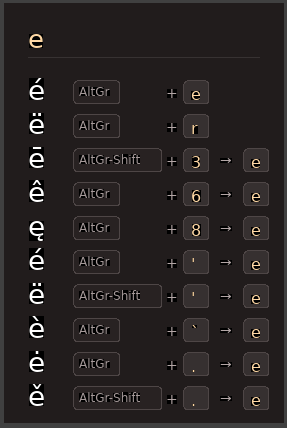
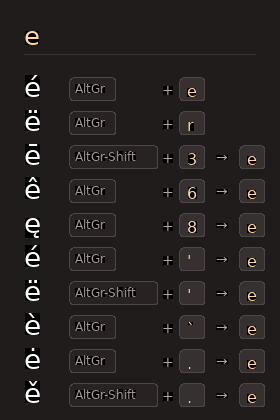
Add --anchor, --margin, and --char CLI options
- --anchor: position window at corners/edges (top-left, bottom-right, etc.)
- --margin: offset from screen edges
- --char: pre-filter to show variants for a specific character on startup

Also add automated screenshot script (scripts/screenshot.sh) that uses
these options to capture kbdviz for documentation.

diff --git a/src/main.rs b/src/main.rs
@@ -4,6 +4,7 @@ mod ui;
 
 use compose::ComposeIndex;
 use keyboard::XkbKeymap;
+use std::env;
 use smithay_client_toolkit::{
     compositor::{CompositorHandler, CompositorState},
     delegate_compositor, delegate_keyboard, delegate_layer, delegate_output, delegate_pointer,
@@ -40,10 +41,94 @@ use ui::CharRefUI;
 const WINDOW_WIDTH: u32 = 280;
 const WINDOW_HEIGHT: u32 = 420;
 
+#[derive(Clone)]
+struct Config {
+    anchor: Anchor,
+    margin: u32,
+    initial_char: Option<char>,
+}
+
+impl Config {
+    fn from_args() -> Result<Self, String> {
+        let args: Vec<String> = env::args().collect();
+        let mut anchor = Anchor::empty(); // centered by default
+        let mut margin = 0u32;
+        let mut initial_char = None;
+
+        let mut i = 1;
+        while i < args.len() {
+            match args[i].as_str() {
+                "--help" | "-h" => {
+                    eprintln!("Usage: kbdviz [OPTIONS]");
+                    eprintln!();
+                    eprintln!("Options:");
+                    eprintln!("  --anchor <POS>     Position: top-left, top-right, bottom-left,");
+                    eprintln!("                     bottom-right, top, bottom, left, right, center");
+                    eprintln!("  --margin <PX>      Margin from screen edges (default: 0)");
+                    eprintln!("  --char <LETTER>    Show variants for this character on startup");
+                    eprintln!("  -h, --help         Show this help");
+                    std::process::exit(0);
+                }
+                "--anchor" => {
+                    i += 1;
+                    if i >= args.len() {
+                        return Err("--anchor requires a value".to_string());
+                    }
+                    anchor = match args[i].as_str() {
+                        "top-left" => Anchor::TOP | Anchor::LEFT,
+                        "top-right" => Anchor::TOP | Anchor::RIGHT,
+                        "bottom-left" => Anchor::BOTTOM | Anchor::LEFT,
+                        "bottom-right" => Anchor::BOTTOM | Anchor::RIGHT,
+                        "top" => Anchor::TOP,
+                        "bottom" => Anchor::BOTTOM,
+                        "left" => Anchor::LEFT,
+                        "right" => Anchor::RIGHT,
+                        "center" => Anchor::empty(),
+                        other => return Err(format!("Unknown anchor: {}", other)),
+                    };
+                }
+                "--margin" => {
+                    i += 1;
+                    if i >= args.len() {
+                        return Err("--margin requires a value".to_string());
+                    }
+                    margin = args[i].parse().map_err(|_| "Invalid margin value")?;
+                }
+                "--char" => {
+                    i += 1;
+                    if i >= args.len() {
+                        return Err("--char requires a value".to_string());
+                    }
+                    let c = args[i].chars().next().ok_or("--char requires a character")?;
+                    if !c.is_alphabetic() {
+                        return Err("--char must be a letter".to_string());
+                    }
+                    initial_char = Some(c);
+                }
+                arg => {
+                    return Err(format!("Unknown argument: {}", arg));
+                }
+            }
+            i += 1;
+        }
+
+        Ok(Config { anchor, margin, initial_char })
+    }
+}
+
 fn main() -> Result<(), Box<dyn std::error::Error>> {
+    let config = match Config::from_args() {
+        Ok(c) => c,
+        Err(e) => {
+            eprintln!("Error: {}", e);
+            eprintln!("Try --help for usage");
+            std::process::exit(1);
+        }
+    };
+
     eprintln!("Starting kbdviz character reference tool...");
 
-    let (mut app, mut event_loop) = App::new()?;
+    let (mut app, mut event_loop) = App::new(config)?;
 
     eprintln!("Layer surface created, starting event loop...");
     eprintln!("Waiting for keymap from compositor...");
@@ -66,10 +151,11 @@ struct App {
 
     ui: Option<CharRefUI>,
     compose_index: Option<Arc<ComposeIndex>>,  // None until we receive keymap from compositor
+    initial_char: Option<char>,
 }
 
 impl App {
-    fn new() -> Result<(Self, EventLoop<'static, Self>), Box<dyn std::error::Error>> {
+    fn new(config: Config) -> Result<(Self, EventLoop<'static, Self>), Box<dyn std::error::Error>> {
         let conn = Connection::connect_to_env()?;
         let (globals, event_queue) = registry_queue_init::<Self>(&conn)?;
         let qh: QueueHandle<Self> = event_queue.handle();
@@ -91,7 +177,8 @@ impl App {
             None,
         );
 
-        layer_surface.set_anchor(Anchor::empty());  // Centered
+        layer_surface.set_anchor(config.anchor);
+        layer_surface.set_margin(config.margin as i32, config.margin as i32, config.margin as i32, config.margin as i32);
         layer_surface.set_exclusive_zone(0);
         layer_surface.set_keyboard_interactivity(KeyboardInteractivity::OnDemand);
         layer_surface.set_size(WINDOW_WIDTH, WINDOW_HEIGHT);
@@ -116,6 +203,7 @@ impl App {
             configured: false,
             ui: None,
             compose_index: None,  // Will be populated when we receive keymap
+            initial_char: config.initial_char,
         };
 
         Ok((app, event_loop))
@@ -145,13 +233,18 @@ impl App {
         if let Some(ref layer_surface) = self.layer_surface {
             let surface = layer_surface.wl_surface();
             // Get the configured size from the layer surface
-            self.ui = Some(CharRefUI::new(
+            let mut ui = CharRefUI::new(
                 surface,
                 WINDOW_WIDTH,
                 WINDOW_HEIGHT,
                 &self.shm,
                 self.compose_index.clone().unwrap(),
-            ));
+            );
+            // Apply initial filter if specified via --char
+            if let Some(c) = self.initial_char {
+                ui.set_filter(c);
+            }
+            self.ui = Some(ui);
             self.render();
         }
     }

diff --git a/src/ui.rs b/src/ui.rs
@@ -85,6 +85,12 @@ impl CharRefUI {
         }
     }
 
+    /// Set the filter character (for --char option)
+    pub fn set_filter(&mut self, c: char) {
+        self.input_text.clear();
+        self.input_text.push(c);
+    }
+
     pub fn handle_key_press(&mut self, _raw_code: u32, keysym: xkb::Keysym) {
         // Clear copied indicator on any key press
         self.copied_row = None;

diff --git a/.claude/commands/release.md b/.claude/commands/release.md
@@ -7,10 +7,12 @@ Create a new release for kbdviz. The GitHub Action handles building and uploadin
 
 2. **Update version**: Edit `Cargo.toml` to update the version number.
 
-3. **Commit and tag**:
+3. **Update screenshot**: Run `./scripts/screenshot.sh` to update the README screenshot. This requires a Wayland session with grim and wtype installed. The script launches kbdviz anchored to the top-left corner, types 'e' to show variants, and captures automatically.
+
+4. **Commit and tag**:
    - Stage all changes
    - Commit with message "Bump version to {version}"
    - Create a git tag `v{version}`
    - Push the commit and tag to origin
 
-4. **Report**: The GitHub Action will build and create the release automatically. Show the user the release URL: `https://github.com/bartcortooms/kbdviz/releases/tag/v{version}`
+5. **Report**: The GitHub Action will build and create the release automatically. Show the user the release URL: `https://github.com/bartcortooms/kbdviz/releases/tag/v{version}`
